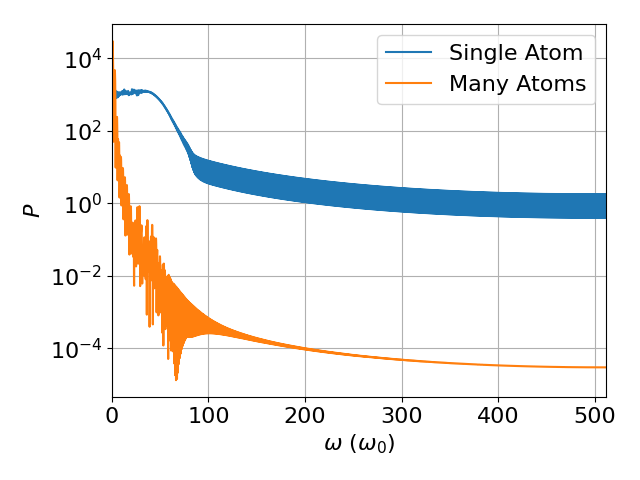
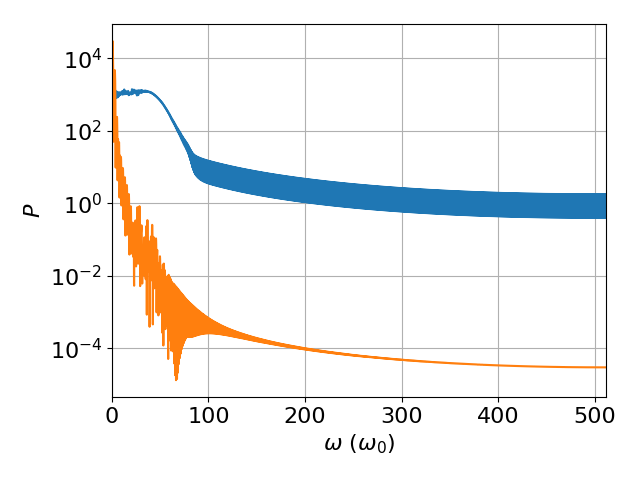
modif by JN 2023-08-23

Changed region(s): [[0.5938, 0.0938, 0.9375, 0.2188], [0.625, 0.1562, 0.6562, 0.2188]]

diff --git a/results/E0/figs.py b/results/E0/figs.py
@@ -8,28 +8,14 @@ mpl.rc('font',**{'size':16})
 
 #GET DATA
 xfc=np.loadtxt('FC/fort.7',usecols=0)
-xfc=1.E15*xfc*2.4188843265857E-17
+xfcfs=1.E15*xfc*2.4188843265857E-17
 yfc=np.loadtxt('FC/fort.7',usecols=1)
 ylfc=np.loadtxt('FC/fort.30',usecols=1)
 
 #plt.plot(x,y,label=r'$R_{moy}^{tot}$')
-plt.plot(xfc,ylfc,label=r'$R_{moy}^{bound} (FC)$')
+plt.plot(xfcfs,ylfc,label=r'$R_{moy}^{bound} (FC)$')
 #plt.xlim(np.min(xfc),np.max(xfc))
-
-
-xnfc=np.loadtxt('nonFC/fort.7',usecols=0)
-xnfc=1.E15*xnfc*2.4188843265857E-17
-ynfc=np.loadtxt('nonFC/fort.7',usecols=1)
-ylnfc=np.loadtxt('nonFC/fort.30',usecols=1)
-
-#plt.plot(x,y,label=r'$R_{moy}^{tot}$')
-plt.plot(xnfc,ylnfc,label=r'$R_{moy}^{bound} (no FC)$')
-plt.xlim(np.min(xnfc),np.max(xnfc))
-
-
-
-
-
+plt.xlim(0,3000)
 
 plt.grid()
 plt.legend()
@@ -38,5 +24,63 @@ plt.xlabel(r'$t\ (fs)$')
 plt.ylabel(r'$R\ (a_0)$')
 plt.tight_layout()
 #plt.show()
-plt.savefig('rmoy.png')
+#plt.savefig('fc.png')
+#plt.close()
+
+
+xnfc=np.loadtxt('nonFC/fort.7',usecols=0)
+xnfcfs=1.E15*xnfc*2.4188843265857E-17
+#ynfcfs=np.loadtxt('nonFC/fort.7',usecols=1)
+ylnfc=np.loadtxt('nonFC/fort.30',usecols=1)
+plt.plot(xnfcfs,ylnfc,label=r'$R_{moy}^{bound} (no FC)$')
+plt.xlim(0,250)
+
+plt.grid()
+plt.legend()
+#plt.title(r'Average R')
+plt.xlabel(r'$t\ (fs)$')
+plt.ylabel(r'$R\ (a_0)$')
+plt.tight_layout()
+#plt.show()
+plt.savefig('fcvsnon-fc.png')
+plt.close()
+
+#plt.plot(x,y,label=r'$R_{moy}^{tot}$')
+
+
+
+
+#plt.grid()
+#plt.legend()
+#plt.title(r'Average R')
+#plt.xlabel(r'$t\ (fs)$')
+#plt.ylabel(r'$R\ (a_0)$')
+#plt.tight_layout()
+#plt.show()
+#plt.savefig('rmoy.png')
+#plt.close()
+
+
+
+#w800=0.057       
+#t4field = np.arange(0,xfc[-1],10000)
+#../nonFC-0_phase-0/fort.2
+field=np.loadtxt('../nonFC-0_phase-0/fort.2',usecols=1)
+#field800np_phase0 = np.cos(w800*t4field)*np.max(np.max(ylfc))#,np.max(ylnfc))
+#plt.plot(ylfc,field800np_phase0,label="Field 800 nm")
+a=1
+b=10
+plt.plot(xfc,b*field+a,label="Field")
+
+#plt.xlim(np.min(xfc),np.max(xfc))
+plt.xlim(0,3000)
+
+plt.grid()
+plt.legend()
+#plt.title(r'Average R')
+plt.xlabel(r'$t\ (fs)$')
+plt.ylabel(r'$R\ (a_0)$')
+plt.tight_layout()
+#plt.show()
+plt.savefig('field.png')
 plt.close()

diff --git a/results/nonFC-0_phase-0.5/figs/figs.py b/results/nonFC-0_phase-0.5/figs/figs.py
@@ -27,11 +27,34 @@ plt.close()
 """
 
 #LOG PLOTS
-plt.semilogy(x,y1,label='Single Atom')
-plt.semilogy(x,y2,label='Many Atoms')
+#SINGLE ATOM
+plt.semilogy(x,y1,color='C0')
 plt.xlim(np.min(x),np.max(x))
 plt.grid()
-plt.legend()
+#plt.legend()
+#plt.title(r'Single Atom Logarithmic HHG Spectra')
+plt.xlabel(r'$\omega\ (\omega_0)$')
+plt.ylabel(r'$P$')
+plt.tight_layout()
+plt.savefig('hhg_log_SA.png')
+plt.close()
+#MANY ATOMS
+plt.semilogy(x,y2,color='C1')
+plt.xlim(np.min(x),np.max(x))
+plt.grid()
+#plt.legend()
+#plt.title(r'Many Atoms Logarithmic HHG Spectra')
+plt.xlabel(r'$\omega\ (\omega_0)$')
+plt.ylabel(r'$P$')
+plt.tight_layout()
+plt.savefig('hhg_log_MA.png')
+plt.close()
+#2 METHODS
+plt.semilogy(x,y1,color='C0',label='Single Atom')
+plt.semilogy(x,y2,color='C1',label='Many Atoms')
+plt.xlim(np.min(x),np.max(x))
+plt.grid()
+#plt.legend()
 #plt.title(r'Logarithmic HHG Spectra')
 plt.xlabel(r'$\omega\ (\omega_0)$')
 plt.ylabel(r'$P$')
@@ -39,6 +62,7 @@ plt.tight_layout()
 plt.savefig('hhg_log.png')
 plt.close()
 
+"""
 ### POPULATIONS ###
 
 #GET DATA
@@ -85,3 +109,4 @@ plt.ylabel(r'$R\ (a_0)$')
 plt.tight_layout()
 plt.savefig('rmoy.png')
 plt.close()
+"""

diff --git a/results/nonFC-0_phase-0/figs/figs.py b/results/nonFC-0_phase-0/figs/figs.py
@@ -27,11 +27,34 @@ plt.close()
 """
 
 #LOG PLOTS
-plt.semilogy(x,y1,label='Single Atom')
-plt.semilogy(x,y2,label='Many Atoms')
+#SINGLE ATOM
+plt.semilogy(x,y1,color='C0')
 plt.xlim(np.min(x),np.max(x))
 plt.grid()
-plt.legend()
+#plt.legend()
+#plt.title(r'Single Atom Logarithmic HHG Spectra')
+plt.xlabel(r'$\omega\ (\omega_0)$')
+plt.ylabel(r'$P$')
+plt.tight_layout()
+plt.savefig('hhg_log_SA.png')
+plt.close()
+#MANY ATOMS
+plt.semilogy(x,y2,color='C1')
+plt.xlim(np.min(x),np.max(x))
+plt.grid()
+#plt.legend()
+#plt.title(r'Many Atoms Logarithmic HHG Spectra')
+plt.xlabel(r'$\omega\ (\omega_0)$')
+plt.ylabel(r'$P$')
+plt.tight_layout()
+plt.savefig('hhg_log_MA.png')
+plt.close()
+#2 METHODS
+plt.semilogy(x,y1,color='C0',label='Single Atom')
+plt.semilogy(x,y2,color='C1',label='Many Atoms')
+plt.xlim(np.min(x),np.max(x))
+plt.grid()
+#plt.legend()
 #plt.title(r'Logarithmic HHG Spectra')
 plt.xlabel(r'$\omega\ (\omega_0)$')
 plt.ylabel(r'$P$')
@@ -39,6 +62,7 @@ plt.tight_layout()
 plt.savefig('hhg_log.png')
 plt.close()
 
+"""
 ### POPULATIONS ###
 
 #GET DATA
@@ -85,3 +109,4 @@ plt.ylabel(r'$R\ (a_0)$')
 plt.tight_layout()
 plt.savefig('rmoy.png')
 plt.close()
+"""

diff --git a/results/nonFC-1_phase-0.5/figs/figs.py b/results/nonFC-1_phase-0.5/figs/figs.py
@@ -27,11 +27,34 @@ plt.close()
 """
 
 #LOG PLOTS
-plt.semilogy(x,y1,label='Single Atom')
-plt.semilogy(x,y2,label='Many Atoms')
+#SINGLE ATOM
+plt.semilogy(x,y1,color='C0')
 plt.xlim(np.min(x),np.max(x))
 plt.grid()
-plt.legend()
+#plt.legend()
+#plt.title(r'Single Atom Logarithmic HHG Spectra')
+plt.xlabel(r'$\omega\ (\omega_0)$')
+plt.ylabel(r'$P$')
+plt.tight_layout()
+plt.savefig('hhg_log_SA.png')
+plt.close()
+#MANY ATOMS
+plt.semilogy(x,y2,color='C1')
+plt.xlim(np.min(x),np.max(x))
+plt.grid()
+#plt.legend()
+#plt.title(r'Many Atoms Logarithmic HHG Spectra')
+plt.xlabel(r'$\omega\ (\omega_0)$')
+plt.ylabel(r'$P$')
+plt.tight_layout()
+plt.savefig('hhg_log_MA.png')
+plt.close()
+#2 METHODS
+plt.semilogy(x,y1,color='C0',label='Single Atom')
+plt.semilogy(x,y2,color='C1',label='Many Atoms')
+plt.xlim(np.min(x),np.max(x))
+plt.grid()
+#plt.legend()
 #plt.title(r'Logarithmic HHG Spectra')
 plt.xlabel(r'$\omega\ (\omega_0)$')
 plt.ylabel(r'$P$')
@@ -39,6 +62,7 @@ plt.tight_layout()
 plt.savefig('hhg_log.png')
 plt.close()
 
+"""
 ### POPULATIONS ###
 
 #GET DATA
@@ -85,3 +109,4 @@ plt.ylabel(r'$R\ (a_0)$')
 plt.tight_layout()
 plt.savefig('rmoy.png')
 plt.close()
+"""

diff --git a/results/nonFC-1_phase-0/figs/figs.py b/results/nonFC-1_phase-0/figs/figs.py
@@ -27,11 +27,34 @@ plt.close()
 """
 
 #LOG PLOTS
-plt.semilogy(x,y1,label='Single Atom')
-plt.semilogy(x,y2,label='Many Atoms')
+#SINGLE ATOM
+plt.semilogy(x,y1,color='C0')
 plt.xlim(np.min(x),np.max(x))
 plt.grid()
-plt.legend()
+#plt.legend()
+#plt.title(r'Single Atom Logarithmic HHG Spectra')
+plt.xlabel(r'$\omega\ (\omega_0)$')
+plt.ylabel(r'$P$')
+plt.tight_layout()
+plt.savefig('hhg_log_SA.png')
+plt.close()
+#MANY ATOMS
+plt.semilogy(x,y2,color='C1')
+plt.xlim(np.min(x),np.max(x))
+plt.grid()
+#plt.legend()
+#plt.title(r'Many Atoms Logarithmic HHG Spectra')
+plt.xlabel(r'$\omega\ (\omega_0)$')
+plt.ylabel(r'$P$')
+plt.tight_layout()
+plt.savefig('hhg_log_MA.png')
+plt.close()
+#2 METHODS
+plt.semilogy(x,y1,color='C0',label='Single Atom')
+plt.semilogy(x,y2,color='C1',label='Many Atoms')
+plt.xlim(np.min(x),np.max(x))
+plt.grid()
+#plt.legend()
 #plt.title(r'Logarithmic HHG Spectra')
 plt.xlabel(r'$\omega\ (\omega_0)$')
 plt.ylabel(r'$P$')
@@ -39,6 +62,7 @@ plt.tight_layout()
 plt.savefig('hhg_log.png')
 plt.close()
 
+"""
 ### POPULATIONS ###
 
 #GET DATA
@@ -85,3 +109,4 @@ plt.ylabel(r'$R\ (a_0)$')
 plt.tight_layout()
 plt.savefig('rmoy.png')
 plt.close()
+"""
